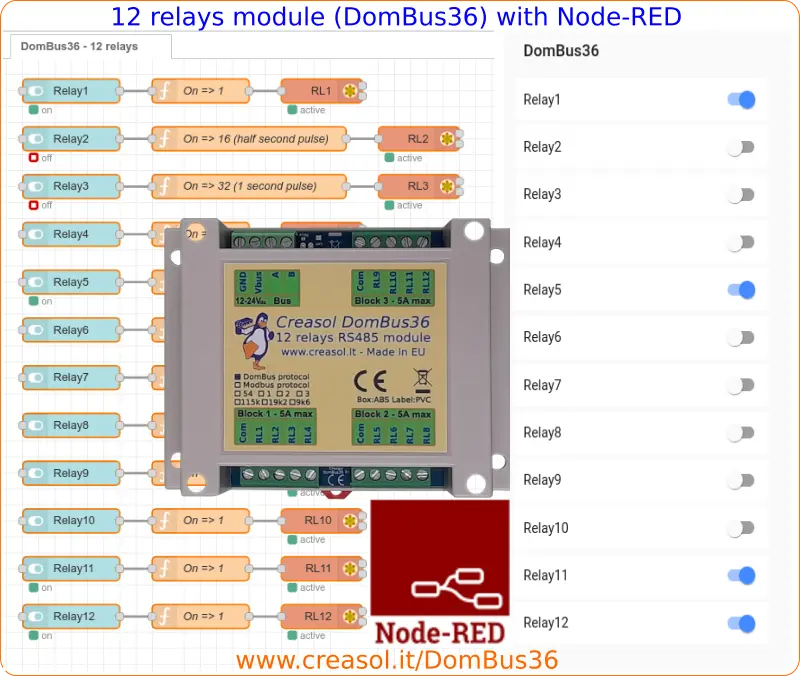
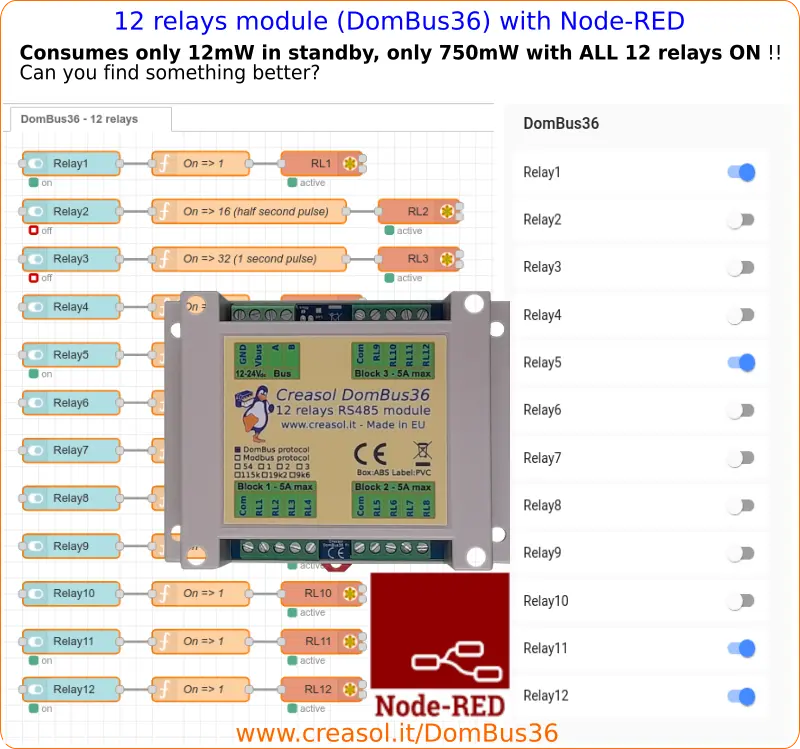
Improved documentation

diff --git a/README.md b/README.md
@@ -18,6 +18,28 @@ Modules are available in two version:
 
 [Store website](https://store.creasol.it/domotics) - [Information website](https://www.creasol.it/domotics)
 
+## Making a home-made smart wallbox, controlled by Node-RED, to charge the electric car
+<a href="https://www.creasol.it/DomBusEVSE"><img src="https://images.creasol.it/DomBusEVSE_wallbox_nodered_ui.webp" alt="DomBusEVSE EVSE module DIY wallbox with NodeRED" style="float: left; margin-right: 2em; vertical-align: middle;" align="left" /></a>
+EV charging can be enabled in the following modes:
+* **Solar**, using only energy from photovoltaic/wind/battery system
+* **25%, 50%, 75%, 100%** , using power from solar (if available) plus 25%/50%/75%/100% of contractual power from the electricity grid
+* **Managed**: in this case the EVSE module works in "stupid" mode, charging the vehicle using the current (Ampere) set by the user through an automation. In this way it's possible to add more and more features, **improving load balancing to charge more vehicles simultaneously or use energy from the house storage, managing the charging with the priority and power decided by the automation**.
+
+
+<a href="https://www.creasol.it/NodeRED"><img src="https://images.creasol.it/DomBusEVSE_wallbox_nodered_flow.webp" alt="Flow to use the DomBusEVSE EVSE module homemade wallbox with NodeRED" style="float: left; margin-right: 2em; vertical-align: middle;" align="left" /></a>
+
+## Creasol DomBus36 12 relay module
+This is a very low power module consuming **only 12mW in stand-by (all relays OFF) and only 750mW with all 12 relays ON**.
+
+Each relay can be toggled ON/OFF or switch ON for a determined amount of time (from 64ms to hours or days) in a monostable way. After that time, the relay is switched OFF automatically by the module. 
+
+Relay contacts are protected by overvoltage and overcurrent.
+
+<a href="https://www.creasol.it/DomBus36"><img src="https://images.creasol.it/DomBus36_relay_module_nodered.webp" alt="DomBus36 12 relays module, Modbus protocol, working with NodeRED" style="float: left; margin-right: 2em; vertical-align: middle;" align="left" /></a>
+
+
+## DomBus modules
+
 ### DomBusEVSE - EVSE module to build a Smart Wallbox / EV charging station
 <a href="https://store.creasol.it/DomBusEVSE"><img src="https://images.creasol.it/creDomBusEVSE_200.png" alt="DomBusEVSE smart EVSE module to make a Smart Wallbox EV Charging station" style="float: left; margin-right: 2em;" align="left" /></a>
 Complete solution to make a Smart EVSE, **charging the electric vehicle using only energy from renewable source (photovoltaic, wind, ...), or adding 25-50-75-100% of available power from the grid**.
